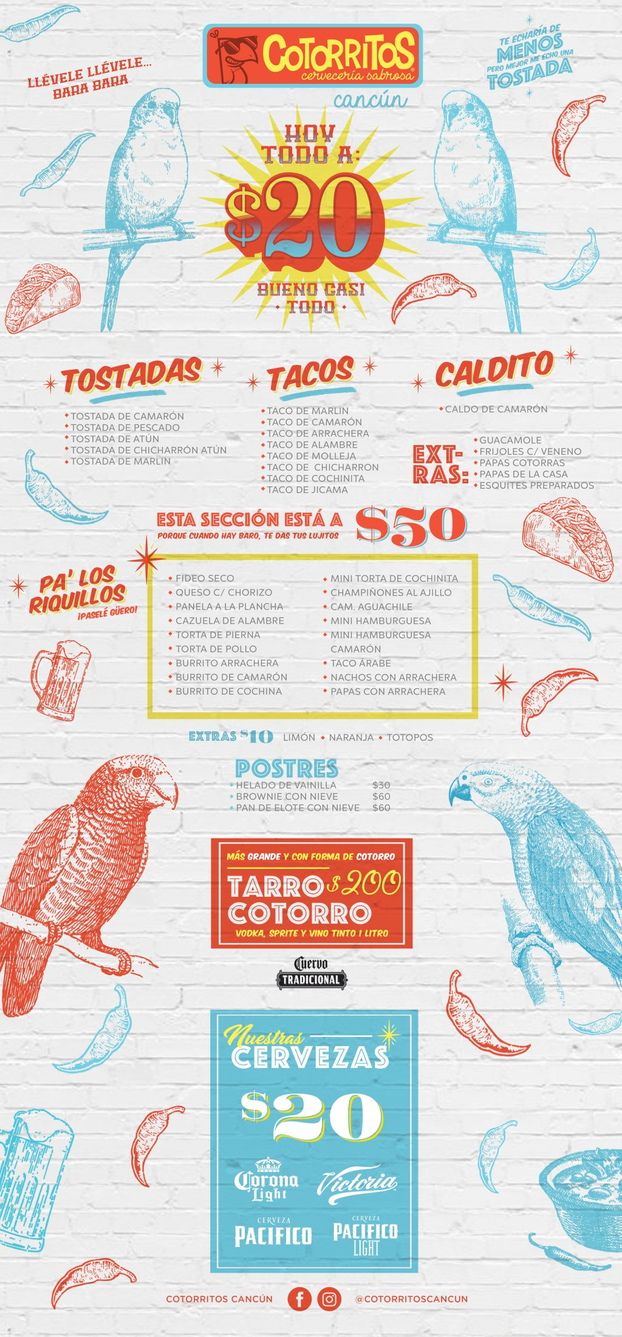
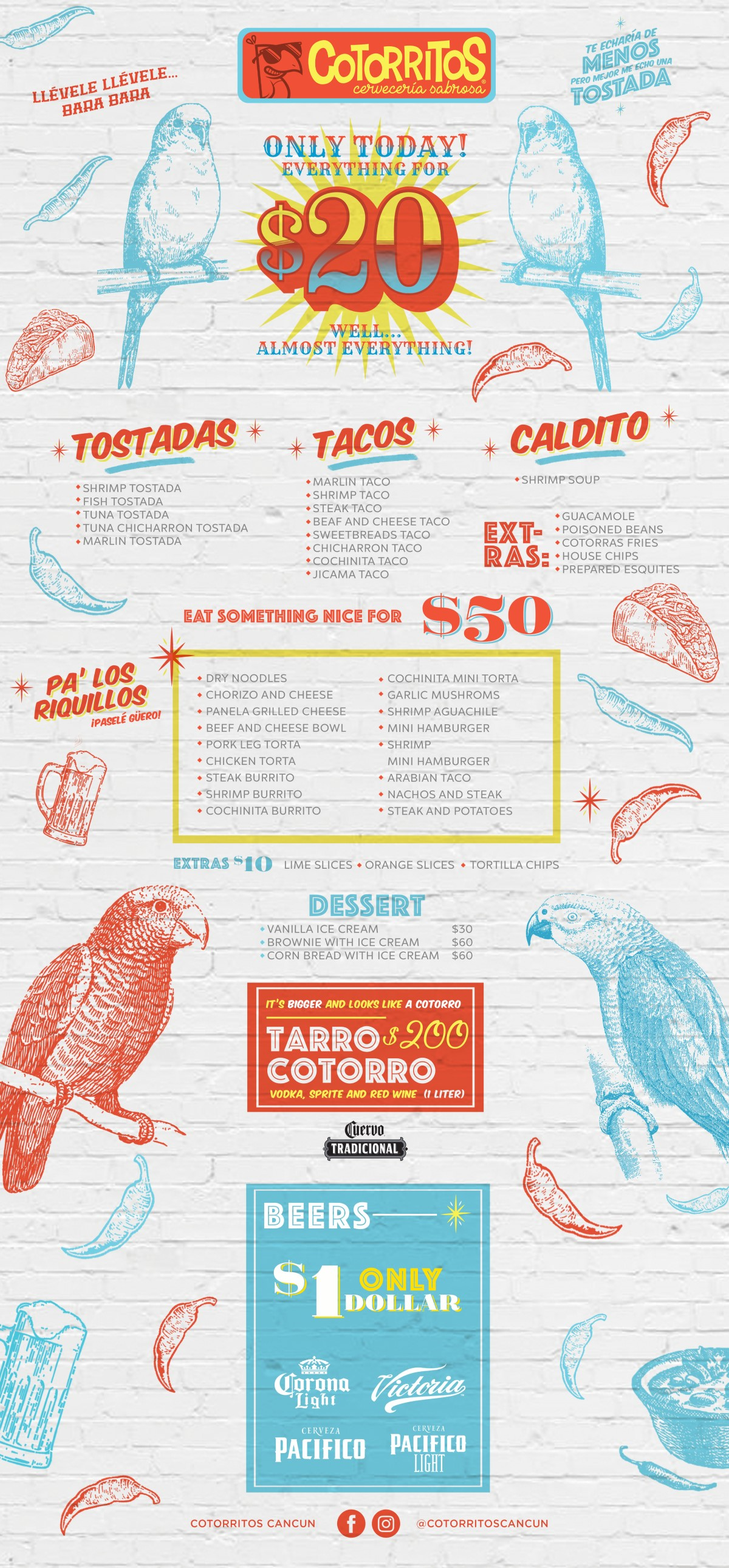
2nd Version Menu EN pages added

diff --git a/src/components/menu.js b/src/components/menu.js
@@ -1,6 +1,7 @@
 import React from "react"
 import { Link } from "gatsby"
 import "../css/style.css"
+import us from "../images/us.png"
 import fb from "../images/fb.png"
 import ins from "../images/ins.png"
 
@@ -33,6 +34,9 @@ export default function Menu() {
             <img className="menu-scl" alt="" src={ins} />
           </Link>
           <div></div>
+          <Link className="link-img" to="/en">
+            <img className="menu-img" alt="" src={us} />
+          </Link>
         </div>
       </div>
     </section>

diff --git a/src/pages/drinks.js b/src/pages/drinks.js
@@ -1,0 +1,19 @@
+import React from "react"
+import SEO from "../components/seo"
+import Drinks from "../components/drinks"
+import NavDrinks from "../components/navdrinks"
+import Footer from "../components/footer"
+import "../css/style.css"
+
+const DrinksPage = () => (
+  <>
+    <SEO title="Bebidas" />
+    <NavDrinks />
+    <Drinks />
+    <div className="footer-2">
+      <Footer />
+    </div>
+  </>
+)
+
+export default DrinksPage

diff --git a/src/pages/dishes.js b/src/pages/dishes.js
@@ -1,0 +1,19 @@
+import React from "react"
+import SEO from "../components/seo"
+import Navbar_en from "../components/navbar_en"
+import Footer from "../components/footer"
+import Dishes from "../components/dishes"
+import "../css/style.css"
+
+const DishesPage = () => (
+  <>
+    <SEO title="Dishes" />
+    <Navbar_en />
+    <Dishes />
+    <div className="footer-3">
+      <Footer />
+    </div>
+  </>
+)
+
+export default DishesPage

diff --git a/src/pages/seafood.js b/src/pages/seafood.js
@@ -1,0 +1,19 @@
+import React from "react"
+import SEO from "../components/seo"
+import Navsea from "../components/navsea"
+import Seafood from "../components/seafood"
+import Footer from "../components/footer"
+import "../css/style.css"
+
+const SeafoodPage = () => (
+  <>
+    <SEO title="Seafood" />
+    <Navsea />
+    <Seafood />
+    <div className="footer-2">
+      <Footer />
+    </div>
+  </>
+)
+
+export default SeafoodPage

diff --git a/src/components/menu_en.js b/src/components/menu_en.js
@@ -18,9 +18,6 @@ export default function Menu_en() {
         <Link className="link-button" to="/drinks">
           <button className="menu-button">Drinks</button>
         </Link>
-        <Link className="link-button" to="/shot">
-          <button className="menu-button">Shots</button>
-        </Link>
         <div className="grid-container-icons">
           <Link
             className="link-scl"

diff --git a/src/pages/en.js b/src/pages/en.js
@@ -1,0 +1,17 @@
+import React from "react"
+import SEO from "../components/seo"
+import Footer from "../components/footer"
+import Menu_en from "../components/menu_en"
+import "../css/style.css"
+
+const EnPage = () => (
+  <>
+    <SEO title="Menu" />
+    <Menu_en />
+    <div className="footer-1">
+      <Footer />
+    </div>
+  </>
+)
+
+export default EnPage
